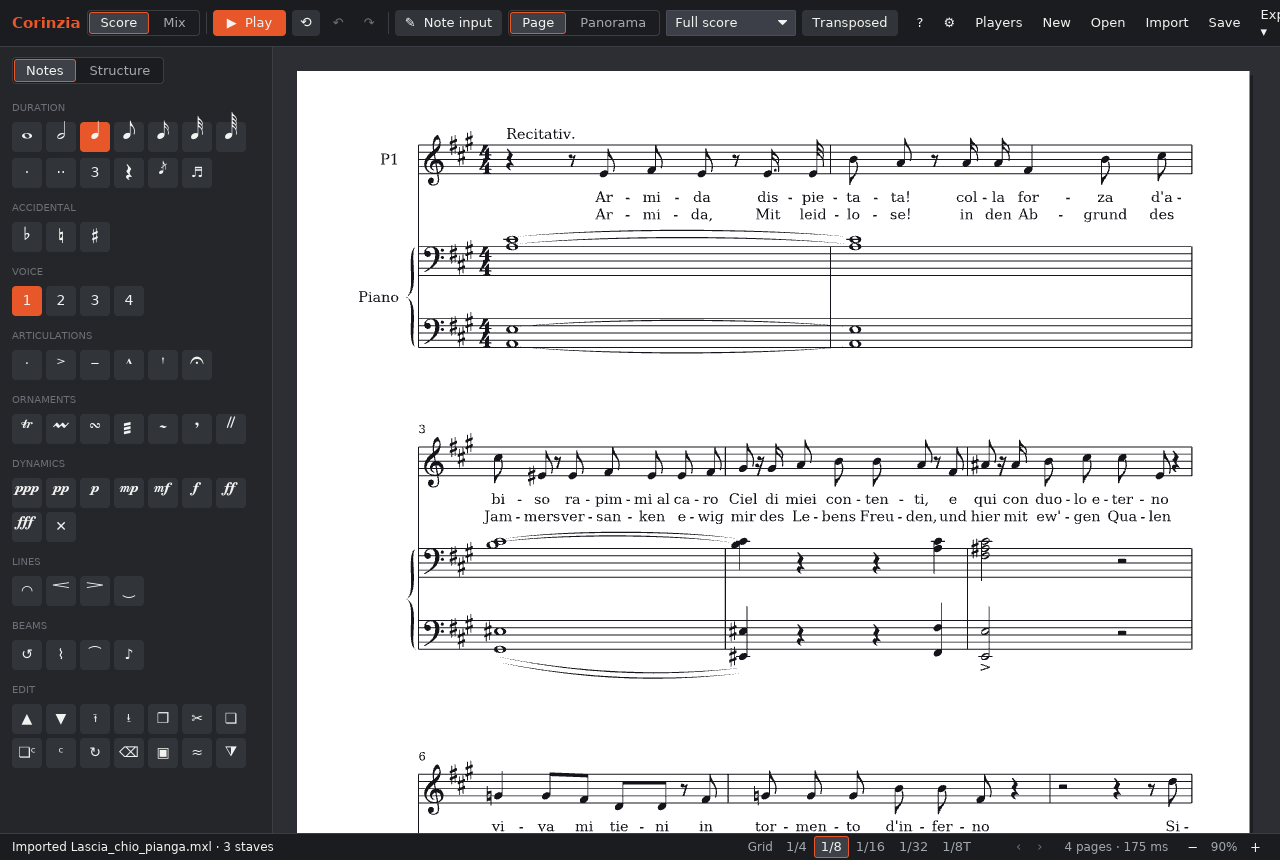
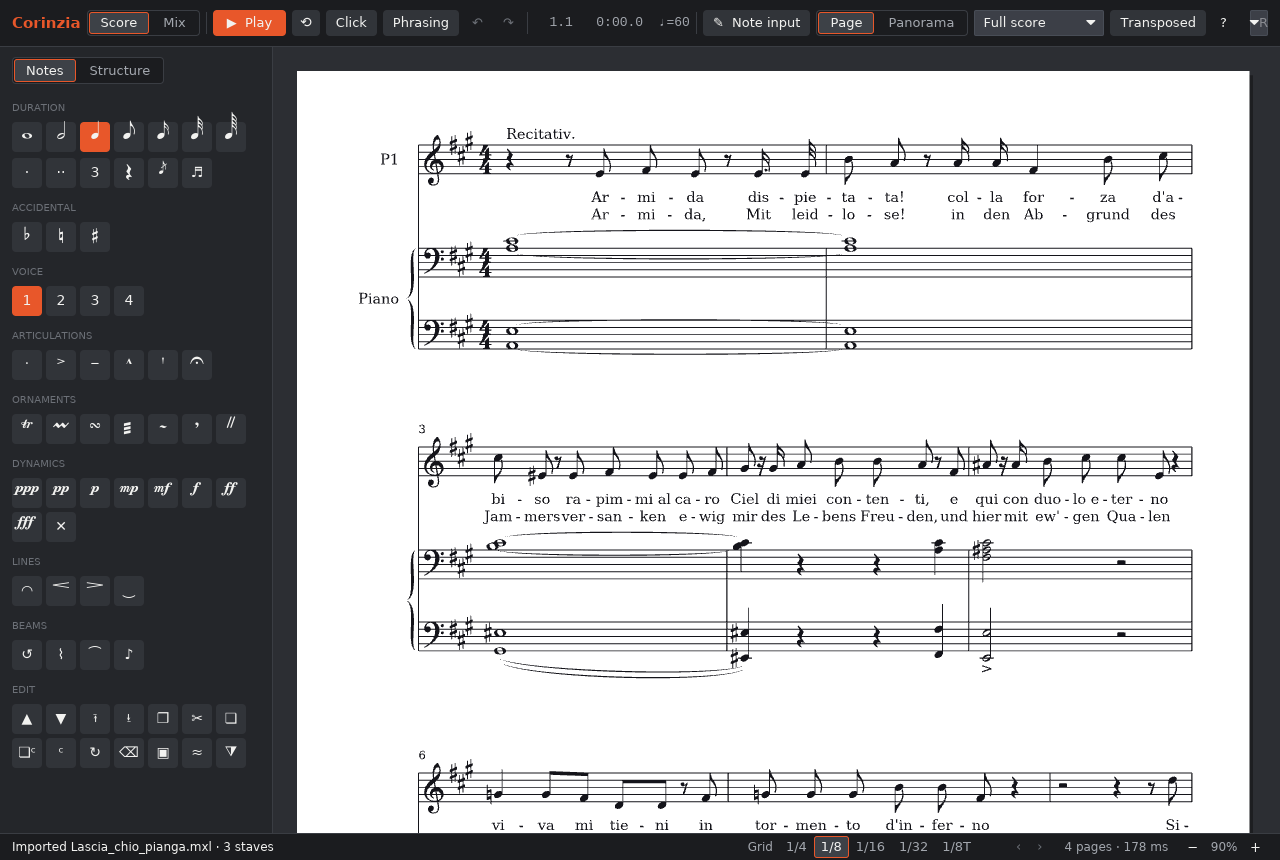
Dynamics, hairpins and graces as LilyPond places them
- Dynamics and hairpins keep DynamicLineSpanner's padding (0.6) from the
  staff as well as from the notes: the staff joins the support, so
  staff-padding (0.1) never decides. Barlines and clefs count as staff.
- Hairpins clear what is below by their wedge outline, not their box, so
  the narrow end may tuck in under a stem the open end must clear.
- Hairpin ends follow hairpin.cc: bound-padding 1.0 from a dynamic and
  from the barline (to-barline, also when the bar opens on a rest); a
  third of it either side of a note where two hairpins meet.
- Slurs encompass the grace notes inside them.
- Compression no longer squeezes grace notes into the note before them:
  the rod holds there.
- README screenshots regenerated from the current engine.

Claude-Session: https://claude.ai/code/session_01QjHNtvPJsKReBtAF1HaKBb

diff --git a/rust/corinzia-layout/src/layout.rs b/rust/corinzia-layout/src/layout.rs
@@ -236,6 +236,7 @@ struct Measure {
     last: bool,       // the movement's last bar (final barline)
     shortest: Frac,   // the movement's common shortest duration (spacing)
     stretch: f32,     // the stretchability of the bar's springs
+    squeeze: f32,     // how far they give when compressed, rods kept
     phase: Frac,      // a pickup's missing beginning (beats count from it)
     number: usize,    // the bar number (a pickup is bar 0)
     multi: usize,     // bars of rest it stands for (a multi-bar rest when > 1)
@@ -283,7 +284,7 @@ fn measures(s: &Score) -> Vec<Measure> {
             _ if shift_changes => Some(key.unwrap_or(Key { at: Frac::ZERO, fifths: 0, minor: false })),
             _ => None,
         };
-        out.push(Measure { start: at, len, num, den, show_time, key: key_changed, x0: 0.0, x1: 0.0, last: false, shortest: BASE_SHORTEST, stretch: 0.0, phase, number: 0, multi: 1, beams });
+        out.push(Measure { start: at, len, num, den, show_time, key: key_changed, x0: 0.0, x1: 0.0, last: false, shortest: BASE_SHORTEST, stretch: 0.0, squeeze: 0.0, phase, number: 0, multi: 1, beams });
         at = at + len;
     }
     if let Some(m) = out.last_mut() {
@@ -755,6 +756,8 @@ fn tie_shape(width: f32) -> (f32, f32) {
 /// How far above a dynamic's baseline its letters' middle (an 'm') sits:
 /// hairpins are centred there (LilyPond's DynamicText Y-offset).
 const DYN_CENTRE: f32 = 0.55;
+/// DynamicLineSpanner `padding`.
+const DYN_PAD: f32 = 0.6;
 
 /// A brace from `top` to `bottom` whose right edge is at `right`: two
 /// filled halves meeting at a point in the middle, thickest half-way along
@@ -1073,6 +1076,10 @@ impl<'a> Engraver<'a> {
         // note's spring stretches by its duration space and fixed distances
         // (signatures, padding) do not.
         let mut breaks: Vec<(f32, f32)> = Vec::new();
+        // Compression's own weights: a gap held open by grace notes gives
+        // no more than down to its rod.
+        let mut squeezes: Vec<(f32, f32)> = Vec::new();
+        let mut squeeze = 0.0f32;
         let mut stretch = 0.0f32;
         for mi in 0..nms {
             if mi > 0 {
@@ -1080,6 +1087,7 @@ impl<'a> Engraver<'a> {
             }
             let m = self.ms[mi].clone();
             let bar_stretch = stretch;
+            let bar_squeeze = squeeze;
             // Key and time shown at this barline.
             if let Some(k) = m.key {
                 // The widest staff's signature (transposing staves differ).
@@ -1157,12 +1165,17 @@ impl<'a> Engraver<'a> {
                     }
                     if mi > 0 {
                         stretch += BAR_TO_NOTE_STRETCH;
+                        squeeze += BAR_TO_NOTE_STRETCH;
                     }
                 } else {
                     let (spring, k) = ideal(cols[j - 1], t - cols[j - 1], &prev_here).unwrap_or((0.0, 0.0));
                     stretch += k;
                     let spring = spring + self.stem_correction(&prev_here, &here);
-                    cx += spring.max(prev_right + left + if left > 0.0 { ROD_PADDING_ACCIDENTAL } else { ROD_PADDING });
+                    let rod = prev_right + left + if left > 0.0 { ROD_PADDING_ACCIDENTAL } else { ROD_PADDING };
+                    // Grace notes squeezed into the note before them would
+                    // collide: there the rod holds under compression.
+                    squeeze += if here.iter().any(|n| !n.graces.is_empty()) { k.min((spring - rod).max(0.0) / -MAX_COMPRESSION) } else { k };
+                    cx += spring.max(rod);
                 }
                 // A chord symbol here must clear the previous one on its staff.
                 for (pi, part) in self.score.parts.iter().enumerate() {
@@ -1186,6 +1199,7 @@ impl<'a> Engraver<'a> {
                 }
                 xs.push(cx);
                 breaks.push((cx, stretch));
+                squeezes.push((cx, squeeze));
                 prev_right = right;
                 prev_here = here;
             }
@@ -1201,6 +1215,7 @@ impl<'a> Engraver<'a> {
                 .unwrap_or(0.0);
             let (spring, k) = ideal(tlast, end - tlast, &prev_here).map(|(s, k)| (s + bar_corr + BAR_HALF_WIDTH, k)).unwrap_or((0.0, 0.0));
             stretch += k;
+            squeeze += k;
             let mut x1 = cx + spring.max(prev_right + 0.8);
             if m.multi > 1 {
                 // A multi-bar rest: a little wider for longer ones.
@@ -1208,10 +1223,14 @@ impl<'a> Engraver<'a> {
             }
             if self.notes.iter().filter(|n| n.measure == mi).all(|n| n.whole_bar) {
                 x1 = x1.max(x + 8.0); // an empty bar keeps a sensible width
-                stretch += (ideal_space(m.len, m.shortest) - SPACING_INCREMENT as f32).max(0.1) * self.opt.spacing;
+                let k = (ideal_space(m.len, m.shortest) - SPACING_INCREMENT as f32).max(0.1) * self.opt.spacing;
+                stretch += k;
+                squeeze += k;
             }
             breaks.push((x1, stretch));
+            squeezes.push((x1, squeeze));
             self.ms[mi].stretch = stretch - bar_stretch;
+            self.ms[mi].squeeze = squeeze - bar_squeeze;
             for n in self.notes.iter_mut().filter(|n| n.measure == mi) {
                 let j = cols.iter().position(|&t| t == n.start).unwrap_or(0);
                 n.x = xs[j];
@@ -1227,10 +1246,11 @@ impl<'a> Engraver<'a> {
         // Justify: the springs share the extra room by their stretchability.
         if let Some(w) = self.width {
             let target = w - self.opt.margin;
-            if stretch > 0.0 && (target - x).abs() > 1e-3 {
+            let (total, weights) = if target < x { (squeeze, &squeezes) } else { (stretch, &breaks) };
+            if total > 0.0 && (target - x).abs() > 1e-3 {
                 // Compressed lines stop short of the springs' minimum.
-                let k = ((target - x) / stretch).max(MAX_COMPRESSION);
-                let f = |v: f32| v + k * stretch_at(&breaks, v);
+                let k = ((target - x) / total).max(MAX_COMPRESSION);
+                let f = |v: f32| v + k * stretch_at(weights, v);
                 for n in self.notes.iter_mut() {
                     n.x = f(n.x);
                 }
@@ -2462,10 +2482,35 @@ impl<'a> Engraver<'a> {
             let end_ids = (si.map(|i| self.notes[i].id), ei.map(|i| self.notes[i].id));
             let mut inner: Vec<&Note> = between.iter().copied().filter(|n| Some(n.id) != end_ids.0 && Some(n.id) != end_ids.1).collect();
             inner.sort_by(|a, b| a.x.total_cmp(&b.x));
+            let mut inner_cols: Vec<slur::Column> = inner.iter().map(|n| column(n, self)).collect();
+            // Grace notes inside the slur are encompassed like any other
+            // note (LilyPond's slur acknowledges their columns too); those
+            // before its first note lie outside it.
+            for n in between.iter().filter(|n| Some(n.id) != end_ids.0) {
+                let up = n.voice % 2 == 1;
+                let beamed = n.graces.len() > 1;
+                for g in &n.graces {
+                    let Some((sx, tip)) = self.out.items.iter().find_map(|it| match it {
+                        Item::Line { from, to, id, .. } if *id == g.id && (from.x - to.x).abs() < 1e-3 => Some((from.x, if up { from.y.min(to.y) } else { from.y.max(to.y) })),
+                        _ => None,
+                    }) else {
+                        continue;
+                    };
+                    let hy = if above { self.y(n.part, g.heads[g.heads.len() - 1].pos) } else { self.y(n.part, g.heads[0].pos) };
+                    let head = hy + dir * 0.5 * GRACE_SCALE;
+                    let col = if up == above {
+                        slur::Column { x: sx, head, stem: tip + if beamed { dir * 0.5 * GRACE_SCALE } else { 0.0 } }
+                    } else {
+                        slur::Column { x: sx, head, stem: head }
+                    };
+                    inner_cols.push(col);
+                }
+            }
+            inner_cols.sort_by(|a, b| a.x.total_cmp(&b.x));
             let columns: Vec<slur::Column> = si
                 .map(|i| column(&self.notes[i], self))
                 .into_iter()
-                .chain(inner.iter().map(|n| column(n, self)))
+                .chain(inner_cols)
                 .chain(ei.map(|i| column(&self.notes[i], self)))
                 .collect();
             // What else hangs off these notes: accidentals to go around,
@@ -2528,7 +2573,7 @@ impl<'a> Engraver<'a> {
     fn build_skylines(&mut self) {
         let mut sky: Vec<Skyline> = (0..self.score.parts.len()).map(|p| Skyline::new(self.top(p))).collect();
         for st in &self.out.staves {
-            sky[st.part].add([st.left, st.top, st.right, st.top + 4.0]);
+            sky[st.part].add_staff([st.left, st.top, st.right, st.top + 4.0]);
         }
         // Notes and what hangs off them belong to their part.
         let mut owner: std::collections::HashMap<u64, usize> = Default::default();
@@ -2555,7 +2600,14 @@ impl<'a> Engraver<'a> {
             if let Some(k) = (0..sky.len()).min_by(|&a, &b| {
                 (cy - (sky[a].staff_top + 2.0)).abs().partial_cmp(&(cy - (sky[b].staff_top + 2.0)).abs()).unwrap()
             }) {
-                sky[k].add(r);
+                // Barlines and clefs within the staff are the staff's own:
+                // dynamics keep the staff's 0.1 from them, not the notes' 0.6.
+                let inside = r[1] >= sky[k].staff_top - 0.2 && r[3] <= sky[k].staff_top + 4.2;
+                if item.id() == 0 && inside {
+                    sky[k].add_staff(r);
+                } else {
+                    sky[k].add(r);
+                }
             }
         }
         self.sky = sky;
@@ -2972,6 +3024,8 @@ impl<'a> Engraver<'a> {
             x0: f32,
             x1: f32,
         }
+        // Hairpin bound-padding.
+        const PIN_PAD: f32 = 1.0;
         let mut placed: Vec<Pin> = Vec::new();
         for sp in pins.iter().cloned() {
             let si = if sp.from >= r0 { self.note_at(sp.part, sp.voice, sp.from) } else { None };
@@ -2983,8 +3037,8 @@ impl<'a> Engraver<'a> {
                 Some(i) => {
                     let n = &self.notes[i];
                     match &n.dynamic {
-                        Some(t) => n.x + HEAD_W / 2.0 + dyn_width(self, t) / 2.0 + 0.5,
-                        None if handed_from => n.x + 0.8 * HEAD_W,
+                        Some(t) => n.x + HEAD_W / 2.0 + dyn_width(self, t) / 2.0 + PIN_PAD,
+                        None if handed_from => n.x + HEAD_W / 2.0 + PIN_PAD / 3.0,
                         None => n.x,
                     }
                 }
@@ -2993,22 +3047,26 @@ impl<'a> Engraver<'a> {
             let x1 = match ei {
                 Some(k) => {
                     let o = &self.notes[k];
-                    let at_dynamic = o.dynamic.as_ref().map(|t| o.x + HEAD_W / 2.0 - dyn_width(self, t) / 2.0 - 0.5);
+                    let at_dynamic = o.dynamic.as_ref().map(|t| o.x + HEAD_W / 2.0 - dyn_width(self, t) / 2.0 - PIN_PAD);
                     if self.is_bar_start(sp.to) && sp.to > sp.from {
                         // LilyPond's to-barline: a hairpin ending on a bar's
-                        // first note stops at the barline before it.
-                        (self.bar_x(sp.to) - 0.6).min(at_dynamic.unwrap_or(f32::MAX))
+                        // first note is bound to the barline before it, and
+                        // stops its bound-padding short of the line's right side.
+                        self.bar_x(sp.to) + d.thin_barline_thickness / 2.0 - PIN_PAD
                     } else if let Some(x) = at_dynamic {
                         x
                     } else if hands_on {
-                        o.x + 0.3 * HEAD_W
+                        o.x + HEAD_W / 2.0 - PIN_PAD / 3.0
                     } else {
                         o.x + HEAD_W
                     }
                 }
                 // Continues in the next system (or ends at its bar's end).
                 None if sp.to >= r1 => right,
-                None => self.col_x(sp.to) - 0.5,
+                // Ending on a bar that opens with a rest: to-barline still.
+                None if self.is_bar_start(sp.to) && sp.to > sp.from => self.bar_x(sp.to) + d.thin_barline_thickness / 2.0 - PIN_PAD,
+                // On a rest: its left edge.
+                None => self.col_x(sp.to),
             };
             if x1 <= x0 + 0.5 {
                 continue;
@@ -3028,11 +3086,23 @@ impl<'a> Engraver<'a> {
             // LilyPond's DynamicLineSpanner: the hairpin's open end clear of
             // the staff by 0.1 and of what hangs below it by 0.6, on the
             // line its dynamics are centred on.
+            // The skyline is the wedge's own outline, so the narrow end may
+            // tuck in under a stem the wide end must clear.
             let base = placed[k..end]
                 .iter()
                 .map(|p| {
-                    let hi = p.ei.map(|e| self.notes[e].x + 2.5).unwrap_or(p.x1);
-                    self.dynamic_clearance(part, p.x0 - 0.5, hi) + 2.0 / 3.0 + DYN_CENTRE
+                    let cresc = p.sp.kind == SpanKind::Cresc;
+                    let half = |x: f32| {
+                        let f = ((x - p.x0) / (p.x1 - p.x0)).clamp(0.0, 1.0);
+                        2.0 / 3.0 * if cresc { f } else { 1.0 - f }
+                    };
+                    let edge = d.hairpin_thickness / 2.0;
+                    let staff = self.top(part) + 4.0 + DYN_PAD + 2.0 / 3.0 + edge;
+                    self.sky[part]
+                        .objects_over(p.x0, p.x1)
+                        .map(|b| b[3] + DYN_PAD + half(if cresc { b[2] } else { b[0] }) + edge)
+                        .fold(staff, f32::max)
+                        + DYN_CENTRE
                 })
                 .fold(f32::MIN, f32::max);
             for p in &placed[k..end] {
@@ -3085,16 +3155,13 @@ impl<'a> Engraver<'a> {
     }
 
     /// Where something under staff `part` over [x0, x1] may start (its
-    /// top edge): LilyPond's DynamicLineSpanner `staff-padding` (0.1) under
-    /// the staff, `padding` (0.6) under the notes, slurs and marks there.
+    /// top edge): LilyPond's DynamicLineSpanner `padding`, 0.6 under the
+    /// staff and under the notes, slurs and marks there.
     fn dynamic_clearance(&self, part: usize, x0: f32, x1: f32) -> f32 {
+        // The staff joins the support as its minimum height, and `padding`
+        // applies to it as to the rest: staff-padding never comes into play.
         let staff = self.top(part) + 4.0;
-        let below = self.sky[part].bottom_over(x0, x1);
-        if below <= staff + 1e-3 {
-            staff + 0.1
-        } else {
-            (below + 0.6).max(staff + 0.1)
-        }
+        self.sky[part].lowest_object(x0, x1).unwrap_or(staff).max(staff) + DYN_PAD
     }
 
     /// Above the top staff: volta brackets, rehearsal marks, tempo marks.
@@ -3559,7 +3626,7 @@ impl Default for PageSpec {
 ///
 /// A system always ends before a bar in `forced`; with `per_system` > 0
 /// systems hold that many bars instead (still ending at forced breaks).
-fn break_systems(natural: &[f32], stretch: &[f32], prefix: impl Fn(usize) -> f32, line: f32, forced: &[usize], per_system: usize) -> Vec<(usize, usize)> {
+fn break_systems(natural: &[f32], stretch: &[f32], squeeze: &[f32], prefix: impl Fn(usize) -> f32, line: f32, forced: &[usize], per_system: usize) -> Vec<(usize, usize)> {
     let n = natural.len();
     let mut cuts: Vec<usize> = forced.iter().copied().filter(|&f| f > 0 && f < n).collect();
     cuts.push(0);
@@ -3577,25 +3644,26 @@ fn break_systems(natural: &[f32], stretch: &[f32], prefix: impl Fn(usize) -> f32
                 a = b;
             }
         } else {
-            out.extend(break_range(natural, stretch, &prefix, line, lo, hi));
+            out.extend(break_range(natural, stretch, squeeze, &prefix, line, lo, hi));
         }
     }
     out
 }
 
 /// The optimal breaks of bars `lo..hi`.
-fn break_range(natural: &[f32], stretch: &[f32], prefix: &impl Fn(usize) -> f32, line: f32, lo: usize, hi: usize) -> Vec<(usize, usize)> {
+fn break_range(natural: &[f32], stretch: &[f32], squeeze: &[f32], prefix: &impl Fn(usize) -> f32, line: f32, lo: usize, hi: usize) -> Vec<(usize, usize)> {
     let n = hi;
     let mut best = vec![f32::INFINITY; n + 1];
     let mut from = vec![lo; n + 1];
     best[lo] = 0.0;
     for b in lo + 1..=n {
-        let (mut sum, mut k) = (0.0, 0.0);
+        let (mut sum, mut k, mut q) = (0.0, 0.0, 0.0);
         for a in (lo..b).rev() {
             sum += natural[a];
             k += stretch[a];
+            q += squeeze[a];
             let width = prefix(a) + sum;
-            let force = (line - width) / k.max(1e-3);
+            let force = (line - width) / if width > line { q } else { k }.max(1e-3);
             if force < MAX_COMPRESSION && b - a > 1 {
                 break;
             }
@@ -3642,11 +3710,12 @@ pub fn layout_pages(score: &Score, opt: &Options, page: &PageSpec) -> Vec<Displa
         e.left + 0.8 + clef_w + 0.8 + 3.0
     };
     let stretch: Vec<f32> = natural_line.ms.iter().map(|m| m.stretch).collect();
+    let squeeze: Vec<f32> = natural_line.ms.iter().map(|m| m.squeeze).collect();
     // Breaks by hand: before the bars starting there.
     let bar_of = |t: Frac| ms.iter().position(|m| m.start == t);
     let forced: Vec<usize> = score.breaks.iter().filter_map(|b| bar_of(b.0)).collect();
     let page_breaks: Vec<usize> = score.breaks.iter().filter(|b| b.1).filter_map(|b| bar_of(b.0)).collect();
-    let systems = break_systems(&natural, &stretch, |a| if a == 0 { first_prefix } else { later_prefix }, line, &forced, page.bars_per_system);
+    let systems = break_systems(&natural, &stretch, &squeeze, |a| if a == 0 { first_prefix } else { later_prefix }, line, &forced, page.bars_per_system);
 
     // Lay out each system, then stack them on pages by their real extents.
     let mut pages: Vec<DisplayList> = Vec::new();

diff --git a/rust/corinzia-layout/src/skyline.rs b/rust/corinzia-layout/src/skyline.rs
@@ -9,11 +9,19 @@ pub type Rect = [f32; 4];
 pub struct Skyline {
     pub staff_top: f32,
     boxes: Vec<Rect>,
+    /// The staff's own box: occupied, but not something to pad from.
+    staves: Vec<Rect>,
 }
 
 impl Skyline {
     pub fn new(staff_top: f32) -> Self {
-        Skyline { staff_top, boxes: Vec::new() }
+        Skyline { staff_top, boxes: Vec::new(), staves: Vec::new() }
+    }
+    /// Records the staff itself (its lines' extent).
+    pub fn add_staff(&mut self, r: Rect) {
+        if r.iter().all(|v| v.is_finite()) {
+            self.staves.push(r);
+        }
     }
     pub fn add(&mut self, r: Rect) {
         if r.iter().all(|v| v.is_finite()) {
@@ -21,7 +29,15 @@ impl Skyline {
         }
     }
     fn overlapping(&self, x0: f32, x1: f32) -> impl Iterator<Item = &Rect> {
+        self.boxes.iter().chain(&self.staves).filter(move |b| b[0] < x1 && b[2] > x0)
+    }
+    /// What is drawn over [x0, x1], the staff aside.
+    pub fn objects_over(&self, x0: f32, x1: f32) -> impl Iterator<Item = &Rect> {
         self.boxes.iter().filter(move |b| b[0] < x1 && b[2] > x0)
+    }
+    /// The lowest bottom of what is drawn over [x0, x1], the staff aside.
+    pub fn lowest_object(&self, x0: f32, x1: f32) -> Option<f32> {
+        self.boxes.iter().filter(|b| b[0] < x1 && b[2] > x0).map(|b| b[3]).reduce(f32::max)
     }
     /// The highest y (smallest value) occupied over [x0, x1]; the staff's top line at least.
     pub fn top_over(&self, x0: f32, x1: f32) -> f32 {
